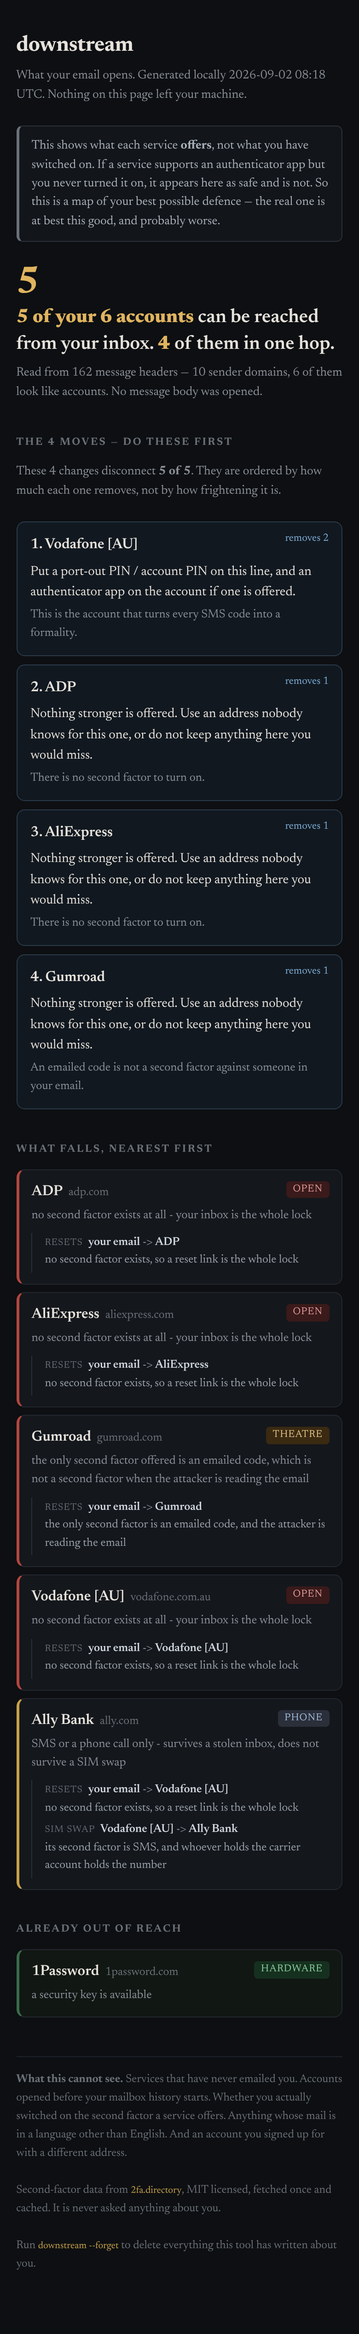
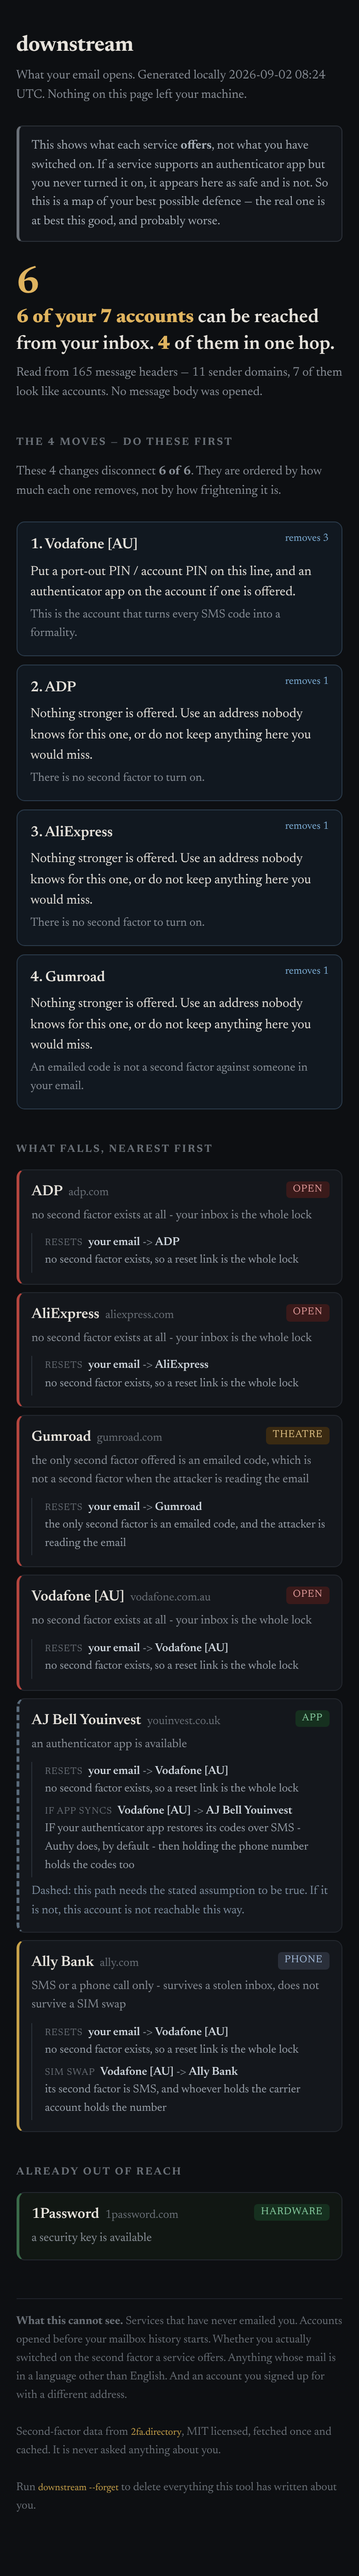
Wren: the SIM edge does not stop at PHONE
He was asked one question - find a takeover path chain.py missed - and found a
whole class of edge:

  Authy restores your entire seed vault to a new device via SMS to the number on
  the account. Google Authenticator has synced to a Google account since 2023.
  So 'this service offers an authenticator app' can be true and irrelevant,
  because the thing gating the codes is a phone number.

It is the same shape the tool is built around - your bank's strong 2FA is worth
what the carrier is worth - and I stopped one hop short. His argument for why it
must be on the page is the one that convinced me: leaving it off is not neutral,
it silently tells an Authy user their app-protected accounts survive a SIM swap.

Conditional and dashed like the vault edge, because whether somebody's codes are
actually synced is not visible in a mail header.

The planted fixture gained a TOTP money account to exercise it - an edge that
fires in no fixture is untested code - and the mutation goes red on three tests.
test_the_carrier_outranks_the_bank_in_the_moves broke, correctly: the carrier now
covers 3 instead of 2, which is his argument in one number.

Two gaps he named that are NOT closed, both now in LIMITS: a registrar is not
always the DNS host, and federated login is unmodelled and probably the biggest
thing missing - he checked the data before proposing it and found the keyword
signal the vault edge rides on does not exist for SSO providers.
[…]

diff --git a/example/report.html b/example/report.html
@@ -47,4 +47,4 @@ h2{font-size:.72rem;letter-spacing:.15em;text-transform:uppercase;color:#6b7178;
 code{font-family:ui-monospace,monospace;font-size:.85em;color:#c8a24a}
 .big{font-size:2.6rem;font-weight:700;line-height:1;color:#e0b45f}
 .big.clear{color:#6fbf8b}
-</style><body><main><h1>downstream</h1><p class=sub>What your email opens. Generated locally 2026-09-02 08:18 UTC. Nothing on this page left your machine.</p><div class=caveat>This shows what each service <b>offers</b>, not what you have switched on. If a service supports an authenticator app but you never turned it on, it appears here as safe and is not. So this is a map of your best possible defence &mdash; the real one is at best this good, and probably worse.</div><div class="big">5</div><p class="headline"><b>5 of your 6 accounts</b> can be reached from your inbox. <b>4</b> of them in one hop.</p><p class=sub>Read from 162 message headers &mdash; 10 sender domains, 6 of them look like accounts. No message body was opened.</p><h2>the 4 moves &mdash; do these first</h2><p class=sub>These 4 changes disconnect <b>5 of 5</b>. They are ordered by how much each one removes, not by how frightening it is.</p><div class=move><div class=n>1. Vodafone [AU]<span>removes 2</span></div><div class=a>Put a port-out PIN / account PIN on this line, and an authenticator app on the account if one is offered.</div><div class=r>This is the account that turns every SMS code into a formality.</div></div><div class=move><div class=n>2. ADP<span>removes 1</span></div><div class=a>Nothing stronger is offered. Use an address nobody knows for this one, or do not keep anything here you would miss.</div><div class=r>There is no second factor to turn on.</div></div><div class=move><div class=n>3. AliExpress<span>removes 1</span></div><div class=a>Nothing stronger is offered. Use an address nobody knows for this one, or do not keep anything here you would miss.</div><div class=r>There is no second factor to turn on.</div></div><div class=move><div class=n>4. Gumroad<span>removes 1</span></div><div class=a>Nothing stronger is offered. Use an address nobody knows for this one, or do not keep anything here you would miss.</div><div class=r>An emailed code is not a second factor against someone in your email.</div></div><h2>what falls, nearest first</h2><div class="row d1"><div class=nm><span class="tag OPEN">OPEN</span>ADP<span class=dom>adp.com</span></div><div class=d>no second factor exists at all - your inbox is the whole lock</div><div class=path><div class=hop><span class=k>resets</span><b>your email</b> -&gt; <b>ADP</b><br>no second factor exists, so a reset link is the whole lock</div></div></div><div class="row d1"><div class=nm><span class="tag OPEN">OPEN</span>AliExpress<span class=dom>aliexpress.com</span></div><div class=d>no second factor exists at all - your inbox is the whole lock</div><div class=path><div class=hop><span class=k>resets</span><b>your email</b> -&gt; <b>AliExpress</b><br>no second factor exists, so a reset link is the whole lock</div></div></div><div class="row d1"><div class=nm><span class="tag THEATRE">THEATRE</span>Gumroad<span class=dom>gumroad.com</span></div><div class=d>the only second factor offered is an emailed code, which is not a second factor when the attacker is reading the email</div><div class=path><div class=hop><span class=k>resets</span><b>your email</b> -&gt; <b>Gumroad</b><br>the only second factor is an emailed code, and the attacker is reading the email</div></div></div><div class="row d1"><div class=nm><span class="tag OPEN">OPEN</span>Vodafone [AU]<span class=dom>vodafone.com.au</span></div><div class=d>no second factor exists at all - your inbox is the whole lock</div><div class=path><div class=hop><span class=k>resets</span><b>your email</b> -&gt; <b>Vodafone [AU]</b><br>no second factor exists, so a reset link is the whole lock</div></div></div><div class="row d2"><div class=nm><span class="tag PHONE">PHONE</span>Ally Bank<span class=dom>ally.com</span></div><div class=d>SMS or a phone call only - survives a stolen inbox, does not survive a SIM swap</div><div class=path><div class=hop><span class=k>resets</span><b>your email</b> -&gt; <b>Vodafone [AU]</b><br>no second factor exists, so a reset link is the whole lock</div><div class=hop><span class=k>sim swap</span><b>Vodafone [AU]</b> -&gt; <b>Ally Bank</b><br>its second factor is SMS, and whoever holds the carrier account holds the number</div></div></div><h2>already out of reach</h2><div class="row safe"><div class=nm><span class="tag HARDWARE">HARDWARE</span>1Password<span class=dom>1password.com</span></div><div class=d>a security key is available</div></div><div class=foot><b>What this cannot see.</b> Services that have never emailed you. Accounts opened before your mailbox history starts. Whether you actually switched on the second factor a service offers. Anything whose mail is in a language other than English. And an account you signed up for with a different address.<br><br>Second-factor data from <code>2fa.directory</code>, MIT licensed, fetched once and cached. It is never asked anything about you.<br><br>Run <code>downstream --forget</code> to delete everything this tool has written about you.</div></main></body></html>
+</style><body><main><h1>downstream</h1><p class=sub>What your email opens. Generated locally 2026-09-02 08:24 UTC. Nothing on this page left your machine.</p><div class=caveat>This shows what each service <b>offers</b>, not what you have switched on. If a service supports an authenticator app but you never turned it on, it appears here as safe and is not. So this is a map of your best possible defence &mdash; the real one is at best this good, and probably worse.</div><div class="big">6</div><p class="headline"><b>6 of your 7 accounts</b> can be reached from your inbox. <b>4</b> of them in one hop.</p><p class=sub>Read from 165 message headers &mdash; 11 sender domains, 7 of them look like accounts. No message body was opened.</p><h2>the 4 moves &mdash; do these first</h2><p class=sub>These 4 changes disconnect <b>6 of 6</b>. They are ordered by how much each one removes, not by how frightening it is.</p><div class=move><div class=n>1. Vodafone [AU]<span>removes 3</span></div><div class=a>Put a port-out PIN / account PIN on this line, and an authenticator app on the account if one is offered.</div><div class=r>This is the account that turns every SMS code into a formality.</div></div><div class=move><div class=n>2. ADP<span>removes 1</span></div><div class=a>Nothing stronger is offered. Use an address nobody knows for this one, or do not keep anything here you would miss.</div><div class=r>There is no second factor to turn on.</div></div><div class=move><div class=n>3. AliExpress<span>removes 1</span></div><div class=a>Nothing stronger is offered. Use an address nobody knows for this one, or do not keep anything here you would miss.</div><div class=r>There is no second factor to turn on.</div></div><div class=move><div class=n>4. Gumroad<span>removes 1</span></div><div class=a>Nothing stronger is offered. Use an address nobody knows for this one, or do not keep anything here you would miss.</div><div class=r>An emailed code is not a second factor against someone in your email.</div></div><h2>what falls, nearest first</h2><div class="row d1"><div class=nm><span class="tag OPEN">OPEN</span>ADP<span class=dom>adp.com</span></div><div class=d>no second factor exists at all - your inbox is the whole lock</div><div class=path><div class=hop><span class=k>resets</span><b>your email</b> -&gt; <b>ADP</b><br>no second factor exists, so a reset link is the whole lock</div></div></div><div class="row d1"><div class=nm><span class="tag OPEN">OPEN</span>AliExpress<span class=dom>aliexpress.com</span></div><div class=d>no second factor exists at all - your inbox is the whole lock</div><div class=path><div class=hop><span class=k>resets</span><b>your email</b> -&gt; <b>AliExpress</b><br>no second factor exists, so a reset link is the whole lock</div></div></div><div class="row d1"><div class=nm><span class="tag THEATRE">THEATRE</span>Gumroad<span class=dom>gumroad.com</span></div><div class=d>the only second factor offered is an emailed code, which is not a second factor when the attacker is reading the email</div><div class=path><div class=hop><span class=k>resets</span><b>your email</b> -&gt; <b>Gumroad</b><br>the only second factor is an emailed code, and the attacker is reading the email</div></div></div><div class="row d1"><div class=nm><span class="tag OPEN">OPEN</span>Vodafone [AU]<span class=dom>vodafone.com.au</span></div><div class=d>no second factor exists at all - your inbox is the whole lock</div><div class=path><div class=hop><span class=k>resets</span><b>your email</b> -&gt; <b>Vodafone [AU]</b><br>no second factor exists, so a reset link is the whole lock</div></div></div><div class="row d2 cond"><div class=nm><span class="tag APP">APP</span>AJ Bell Youinvest<span class=dom>youinvest.co.uk</span></div><div class=d>an authenticator app is available</div><div class=path><div class=hop><span class=k>resets</span><b>your email</b> -&gt; <b>Vodafone [AU]</b><br>no second factor exists, so a reset link is the whole lock</div><div class=hop><span class=k>if app syncs</span><b>Vodafone [AU]</b> -&gt; <b>AJ Bell Youinvest</b><br>IF your authenticator app restores its codes over SMS - Authy does, by default - then holding the phone number holds the codes too</div></div><div class=d style="margin-top:.4rem;color:#7f8fa0">Dashed: this path needs the stated assumption to be true. If it is not, this account is not reachable this way.</div></div><div class="row d2"><div class=nm><span class="tag PHONE">PHONE</span>Ally Bank<span class=dom>ally.com</span></div><div class=d>SMS or a phone call only - survives a stolen inbox, does not survive a SIM swap</div><div class=path><div class=hop><span class=k>resets</span><b>your email</b> -&gt; <b>Vodafone [AU]</b><br>no second factor exists, so a reset link is the whole lock</div><div class=hop><span class=k>sim swap</span><b>Vodafone [AU]</b> -&gt; <b>Ally Bank</b><br>its second factor is SMS, and whoever holds the carrier account holds the number</div></div></div><h2>already out of reach</h2><div class="row safe"><div class=nm><span class="tag HARDWARE">HARDWARE</span>1Password<span class=dom>1password.com</span></div><div class=d>a security key is available</div></div><div class=foot><b>What this cannot see.</b> Services that have never emailed you. Accounts opened before your mailbox history starts. Whether you actually switched on the second factor a service offers. Anything whose mail is in a language other than English. And an account you signed up for with a different address.<br><br>Second-factor data from <code>2fa.directory</code>, MIT licensed, fetched once and cached. It is never asked anything about you.<br><br>Run <code>downstream --forget</code> to delete everything this tool has written about you.</div></main></body></html>

diff --git a/tests/test_downstream.py b/tests/test_downstream.py
@@ -57,6 +57,32 @@ def test_one_hop_accounts_are_at_depth_one():
         assert g.nodes[d].depth == 1, f"{d} should be one hop, is {g.nodes[d].depth}"
 
 
+def test_the_carrier_conditionally_reaches_app_protected_accounts():
+    """Wren's finding: the SIM edge does not stop at PHONE.
+
+    Authy restores a whole TOTP vault over SMS to the number on the account, so
+    "this service offers an authenticator app" can be true and irrelevant. The
+    path must exist, must be CONDITIONAL, and must be drawn as needing an
+    assumption - leaving it out silently tells somebody their app-protected
+    accounts survive a SIM swap, and for an Authy user that is false.
+    """
+    _, _, g = _run(synth.PLANTED)
+    n = g.nodes["youinvest.co.uk"]
+    assert n.klass == policy.APP, "fixture drifted; this should be a TOTP service"
+    assert n.reachable, "an APP account behind a reachable carrier was called safe"
+    assert n.only_conditional, "this path must be conditional, not asserted"
+    assert n.path[-1].kind == chain.AUTHBACKUP
+    assert n.path[-1].src == "vodafone.com.au"
+    assert not n.path[-1].certain
+
+
+def test_the_conditional_path_is_visibly_conditional_on_the_page():
+    _, _, g = _run(synth.PLANTED)
+    out = page.render(g, chain.moves(g), {"messages": 1, "domains": 1})
+    assert "cond" in out, "conditional rows are not marked"
+    assert "needs the stated assumption" in out
+
+
 def test_a_hardware_account_is_not_reachable():
     _, _, g = _run(synth.PLANTED)
     assert not g.nodes["1password.com"].reachable, \
@@ -197,7 +223,14 @@ def test_the_carrier_outranks_the_bank_in_the_moves():
     assert ms, "no moves produced"
     assert ms[0].domain == "vodafone.com.au", \
         f"first move should be the carrier, was {ms[0].domain}"
-    assert set(ms[0].covers) == {"vodafone.com.au", "ally.com"}
+    # It covers itself, the SMS-protected bank, and - since Wren's finding - the
+    # TOTP account whose codes can restore over SMS. Adding that edge made the
+    # carrier MORE important, which is his argument in one number.
+    assert {"vodafone.com.au", "ally.com"} <= set(ms[0].covers)
+    assert "youinvest.co.uk" in ms[0].covers, \
+        "the conditional authbackup reach is not counted in the set-cover"
+    assert len(ms[0].covers) > max(len(m.covers) for m in ms[1:]), \
+        "the carrier must cover strictly more than any single leaf"
 
 
 def test_moves_never_claim_to_cover_something_still_reachable():

diff --git a/downstream/chain.py b/downstream/chain.py
@@ -44,6 +44,7 @@ RESET = "reset"        # owning the inbox resets this outright
 SIM = "sim"            # owning the carrier defeats an SMS second factor
 MX = "mx"              # owning the registrar redirects the mail itself
 VAULT = "vault"        # conditional: if the codes live in this vault
+AUTHBACKUP = "authbackup"   # conditional: if the TOTP codes restore over SMS
 CERTAIN = {RESET, SIM, MX}
 
 
@@ -139,7 +140,30 @@ def build(accounts: dict, directory: policy.Directory, email_domain: str = "") -
                               f"it can repoint the MX records for {email_domain}, "
                               f"which is every address at that domain"))
 
-    # 4. Conditional: a password vault, IF the authenticator codes are in it.
+    # 4. Conditional: the carrier ALSO reaches app-protected accounts, IF the
+    #    authenticator restores over SMS. Wren's finding, and he is right that
+    #    leaving it out is not neutral:
+    #
+    #      "Authy restores your entire seed vault to a new device via SMS to the
+    #       number on the account. Google Authenticator has synced to a Google
+    #       account since 2023; Microsoft Authenticator backs up to a Microsoft
+    #       account. In every one of those cases 'the account offers TOTP' is
+    #       true and also irrelevant."
+    #
+    #    It is the same shape the whole tool is built around - your bank's strong
+    #    2FA is worth what the carrier is worth - and I stopped one hop short.
+    #    Conditional and dashed, like the vault edge, because whether somebody's
+    #    codes are actually synced is not visible in a mail header.
+    for c in carriers:
+        for n in nodes.values():
+            if n is c or n.klass != policy.APP:
+                continue
+            edges.append(Edge(c.domain, n.domain, AUTHBACKUP,
+                              "IF your authenticator app restores its codes over "
+                              "SMS - Authy does, by default - then holding the "
+                              "phone number holds the codes too"))
+
+    # 5. Conditional: a password vault, IF the authenticator codes are in it.
     for v in vaults:
         for n in nodes.values():
             if n is v or n.klass != policy.APP:

diff --git a/tests/synth.py b/tests/synth.py
@@ -29,6 +29,10 @@ PLANTED = [
                          ("Your payment confirmation", 4)]),
     ("gumroad.com",     [("Your receipt from Gumroad", 3)]),
     ("1password.com",   [("Verify your email address", 1)]),
+    # TOTP-protected and money-holding. Not reachable by any CERTAIN path - the
+    # only thing that touches it is Wren's conditional authbackup edge, which is
+    # why it is here: an edge that fires in no fixture is untested code.
+    ("youinvest.co.uk", [("Your statement is available", 3)]),
     ("aliexpress.com",  [("Your order confirmation", 2),
                          ("50% off flash sale ends tonight", 40)]),
     # --- not accounts: bulk mail that must not reach the page ---
@@ -87,7 +91,7 @@ def expected_accounts(spec=PLANTED) -> set:
     """
     if spec is PLANTED:
         return {"vodafone.com.au", "ally.com", "adp.com", "gumroad.com",
-                "1password.com", "aliexpress.com"}
+                "1password.com", "aliexpress.com", "youinvest.co.uk"}
     if spec is BORING:
         return {"1password.com", "adafruit.com", "afternic.com", "github.com"}
     if spec is HARD:

diff --git a/downstream/policy.py b/downstream/policy.py
@@ -50,7 +50,6 @@ MONEY = {"banking", "finance", "investing", "cryptocurrencies", "payments", "ret
 
 # Categories whose accounts are themselves KEYS to other accounts.
 REGISTRAR = {"domains"}
-MAILHOST = {"email"}
 IDENTITY = {"identity"}          # password managers / SSO live here
 
 # The directory has no `telecom` keyword. The PRD assumed one and was wrong.
@@ -109,10 +108,6 @@ class Service:
     @property
     def is_registrar(self) -> bool:
         return bool(self.keywords & REGISTRAR)
-
-    @property
-    def is_mailhost(self) -> bool:
-        return bool(self.keywords & MAILHOST)
 
     @property
     def is_identity(self) -> bool:

diff --git a/downstream/page.py b/downstream/page.py
@@ -85,7 +85,8 @@ def _hop_line(edge, nodes) -> str:
     src = nodes.get(edge.src)
     srcname = src.name if src else edge.src
     kind = {chain.RESET: "resets", chain.SIM: "sim swap",
-            chain.MX: "mx", chain.VAULT: "if in vault"}.get(edge.kind, edge.kind)
+            chain.MX: "mx", chain.VAULT: "if in vault",
+            chain.AUTHBACKUP: "if app syncs"}.get(edge.kind, edge.kind)
     return (f'<div class=hop><span class=k>{_e(kind)}</span>'
             f'<b>{_e(srcname)}</b> -&gt; <b>{_e(dstname)}</b><br>{_e(edge.why)}</div>')
 

diff --git a/README.md b/README.md
@@ -113,6 +113,33 @@ which found two real defects (a payslip matching nothing, and a colleague's
 the rules were adjusted *after* seeing those cases, so this is a corpus that has
 been fitted. It is not a claim about your mailbox.
 
+**The carrier also conditionally reaches app-protected accounts, and that is a
+newer, dashed edge.** Authy restores an entire TOTP vault over SMS to the number
+on the account; Google Authenticator syncs to a Google account. So "this service
+offers an authenticator app" can be true and irrelevant. Wren found this and he
+was right that leaving it out is not neutral - it would silently tell an Authy
+user their app-protected accounts survive a SIM swap. Whether your codes are
+actually synced is not visible in a mail header, so the path is conditional.
+
+**A consequence of that: the ordering APP-above-PHONE is a claim about what the
+service offers, not about you.** It stops being true the moment recovery is
+delegated somewhere with a weaker link.
+
+**Two gaps that are named and NOT closed.** Both from the same review:
+
+- *Registrar is not the same as DNS host.* The `mx` edge fires on a registrar
+  account, but plenty of self-hosted domains are registered at one company and
+  nameservered at another, and it is the nameserver holder who can repoint MX.
+  The directory has no "DNS host" keyword, the same way it has no "telecom" one.
+- *Federated login is not modelled at all, and it is probably the biggest thing
+  missing.* An OPEN Google account is a skeleton key to everything you have ever
+  used "Sign in with Google" for, and no hardware key on the downstream service
+  can stop it. It is not built because the signal the vault edge rides on does
+  not exist for SSO providers - Google, Apple and Microsoft carry keywords like
+  `retail`, `backup` and `cloud` in this dataset, never `identity` - so it would
+  need a second hardcoded list. That is a separate piece of work, not a cheap
+  sibling of what is here.
+
 **Unknown is scored as OPEN.** A service not in the directory is counted as the
 bad case. Absence of evidence does not downgrade a risk here, so expect the
 report to be pessimistic about anything obscure.
@@ -133,10 +160,10 @@ that matter:
   must come back with *nothing reachable*. A ranker that alarms everybody is not
   a ranker, and this is the case where the honest answer is "you are fine".
 
-All five load-bearing rules have been mutation-tested: scoring UNKNOWN as safe,
+All six load-bearing rules have been mutation-tested: scoring UNKNOWN as safe,
 treating an emailed code as real protection, removing the SIM edge, ranking the
-moves by severity instead of coverage, and writing subjects to disk each make a
-named test go red.
+moves by severity instead of coverage, and writing subjects to disk, and dropping
+the carrier-to-app edge each make a named test go red.
 
 ## Credits
 
